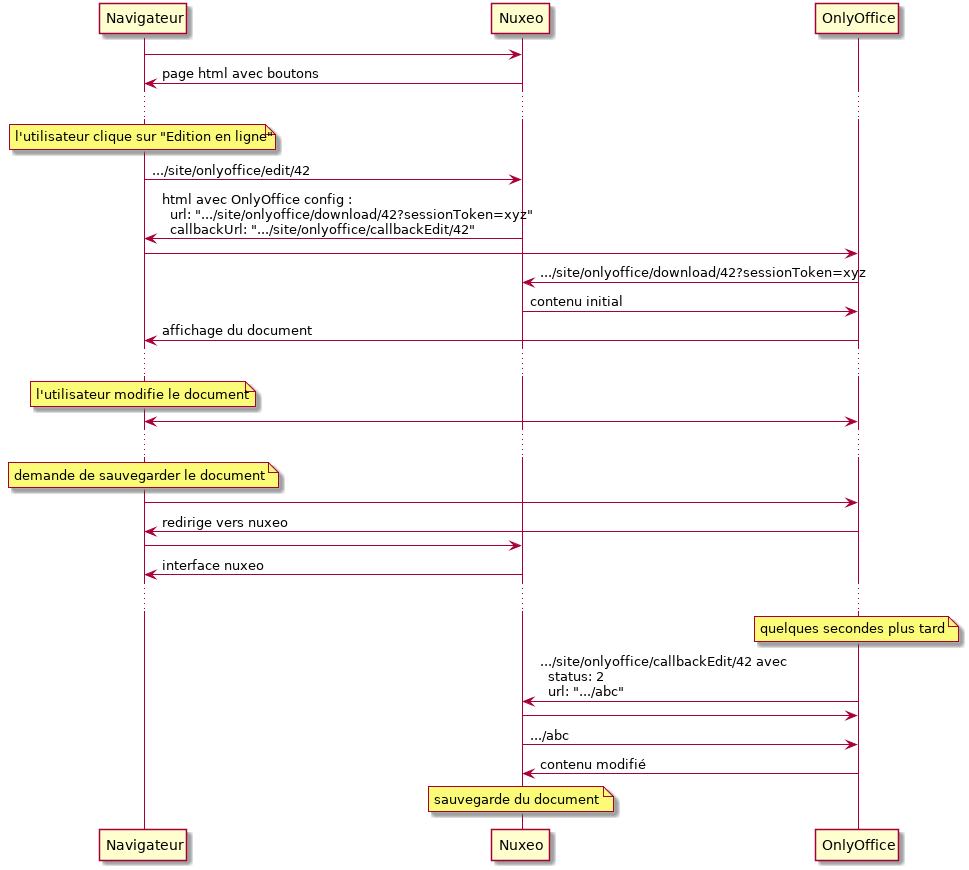
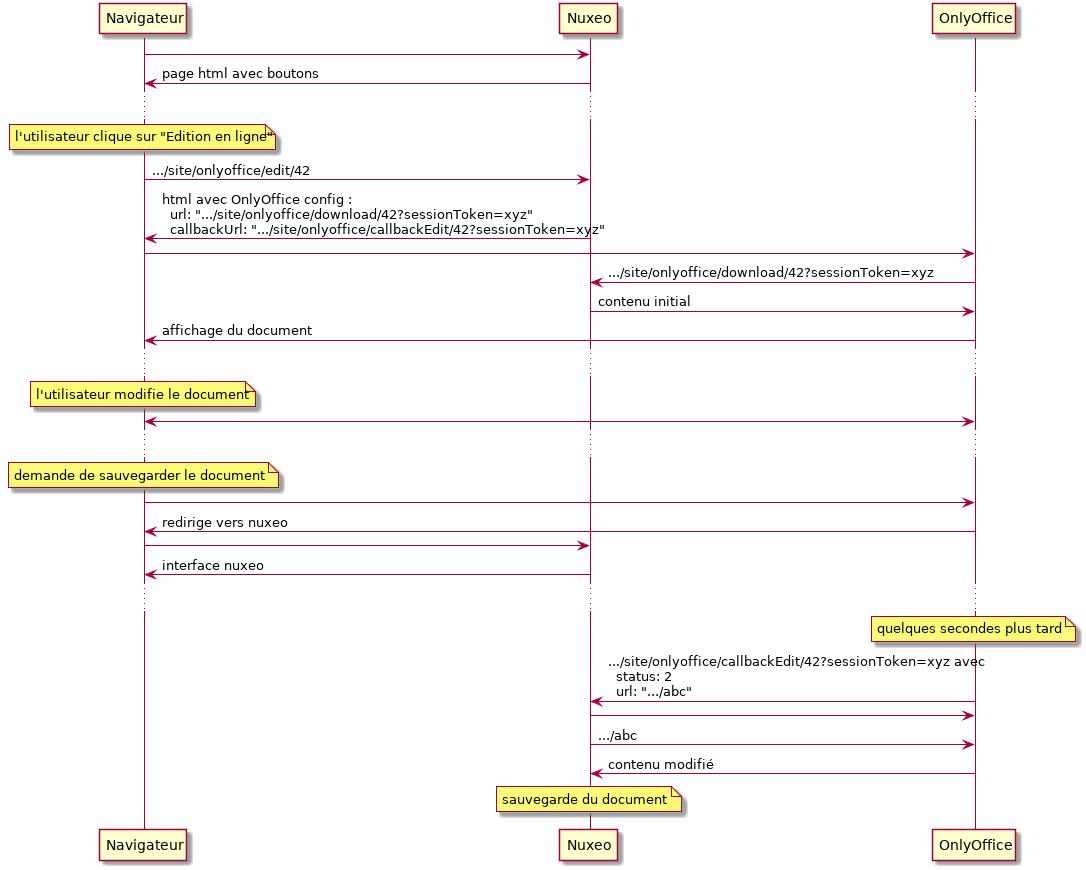
do pass sessionToken in url for /callback* urls

diff --git a/nuxeo-onlyoffice-plugin/nuxeo-onlyoffice-core/src/main/java/fr/edu/lyon/nuxeo/onlyoffice/service/OnlyOfficeEditDocument.java b/nuxeo-onlyoffice-plugin/nuxeo-onlyoffice-core/src/main/java/fr/edu/lyon/nuxeo/onlyoffice/service/OnlyOfficeEditDocument.java
@@ -124,9 +124,10 @@ public class OnlyOfficeEditDocument extends AbstractOnlyOfficeDocument
 	}
 
 	@Override
-	public String getCallbackUrl()
+	public String getCallbackUrl(String sessionToken)
 	{
-		return new StringBuilder(context.getCallbackBaseUrl()).append(isCoEditionEnabled() ? SITE_ONLYOFFICE_CALLBACK_COEDITING:SITE_ONLYOFFICE_CALLBACK).append(doc.getId()).toString();
+		return new StringBuilder(context.getCallbackBaseUrl()).append(isCoEditionEnabled() ? SITE_ONLYOFFICE_CALLBACK_COEDITING:SITE_ONLYOFFICE_CALLBACK).append(doc.getId()).append("?sessionToken=")
+        .append(sessionToken).toString();
 	}
 
 	@Override

diff --git a/nuxeo-onlyoffice-plugin/nuxeo-onlyoffice-core/src/main/java/fr/edu/lyon/nuxeo/onlyoffice/service/OnlyOfficeCreateDocument.java b/nuxeo-onlyoffice-plugin/nuxeo-onlyoffice-core/src/main/java/fr/edu/lyon/nuxeo/onlyoffice/service/OnlyOfficeCreateDocument.java
@@ -96,10 +96,11 @@ public class OnlyOfficeCreateDocument extends AbstractOnlyOfficeDocument
 	}
 
 	@Override
-	public String getCallbackUrl()
+	public String getCallbackUrl(String sessionToken)
 	{
 		String docId=FileUtility.getEncoded(parent.getId(),filename,filetype);
-		return new StringBuilder(context.getCallbackBaseUrl()).append(SITE_ONLYOFFICE_CALLBACK).append(docId).toString();
+		return new StringBuilder(context.getCallbackBaseUrl()).append(SITE_ONLYOFFICE_CALLBACK).append(docId).append("?sessionToken=")
+           .append(sessionToken).toString();
 	}
 
 	@Override

diff --git a/nuxeo-onlyoffice-plugin/nuxeo-onlyoffice-core/src/main/java/fr/edu/lyon/nuxeo/onlyoffice/service/OnlyofficeConfig.java b/nuxeo-onlyoffice-plugin/nuxeo-onlyoffice-core/src/main/java/fr/edu/lyon/nuxeo/onlyoffice/service/OnlyofficeConfig.java
@@ -121,7 +121,7 @@ public class OnlyofficeConfig
 	private JSONObject getEditorConfig(OnlyOfficeDocument onlyOfficeDocument)
 	{
 		JSONObject editor = new JSONObject();
-		editor.accumulate(ONLYOFFICE_CALLBACK_URL_CONFIG, onlyOfficeDocument.getCallbackUrl());
+		editor.accumulate(ONLYOFFICE_CALLBACK_URL_CONFIG, onlyOfficeDocument.getCallbackUrl(getSessionToken(onlyOfficeDocument.getSessionPrincipal())));
 		editor.accumulate(ONLYOFFICE_LANG_CONFIG, "fr");
 		editor.accumulate(ONLYOFFICE_MODE_CONFIG, onlyOfficeDocument.isEditModeEnabled() ? "edit" : "view");
 

diff --git a/nuxeo-jwt-authenticator/src/main/java/fr/edu/lyon/nuxeo/jwt/service/JWTSignDescriptor.java b/nuxeo-jwt-authenticator/src/main/java/fr/edu/lyon/nuxeo/jwt/service/JWTSignDescriptor.java
@@ -140,7 +140,7 @@ public class JWTSignDescriptor
 	public String getSessionToken(Principal principal)
 	{
 		Calendar cal = GregorianCalendar.getInstance();
-		cal.add(Calendar.MINUTE, 5);
+		cal.add(Calendar.MINUTE, 8 * 60);
 		return JWT.create().withIssuedAt(new Date()).withExpiresAt(cal.getTime()).withClaim("userId", principal.getName()).sign(getAlgorithm());
 	}
 }

diff --git a/nuxeo-onlyoffice-plugin/nuxeo-onlyoffice-core/src/main/java/fr/edu/lyon/nuxeo/onlyoffice/service/OnlyOfficeDocument.java b/nuxeo-onlyoffice-plugin/nuxeo-onlyoffice-core/src/main/java/fr/edu/lyon/nuxeo/onlyoffice/service/OnlyOfficeDocument.java
@@ -74,7 +74,7 @@ public interface OnlyOfficeDocument
 	 * URL de tracking
 	 * @return
 	 */
-	String getCallbackUrl();
+	String getCallbackUrl(String sessionToken);
 
 	/**
 	 * Le mode édition est-il requis ?
